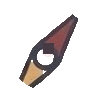
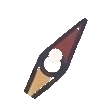
feat: 選關指南針指針單獨旋轉
底圖清掉指針，指針疊在上面繞中心轉。狗維持原圖不動。

Changed region(s): [[0.1875, 0.125, 0.8125, 0.9375]]

diff --git a/index.html b/index.html
@@ -34,7 +34,7 @@
   <link rel="preload" as="image" href="assets/review-yellow.png">
   <link rel="preload" as="image" href="assets/review-white.png">
   <link rel="stylesheet" href="styles.css?v=4">
-  <link rel="stylesheet" href="game.css?v=15">
+  <link rel="stylesheet" href="game.css?v=16">
 </head>
 <body>
   <audio id="bgm" src="assets/bgm.mp3?v=3" loop preload="auto" autoplay playsinline></audio>
@@ -66,7 +66,8 @@
 
   <main class="stage select-page" id="view-select" hidden>
     <div class="shot">
-      <img src="assets/select-ref.jpg?v=3" alt="趣味九九乘法表關卡選擇">
+      <img class="shot-plate" src="assets/select-compass-base.jpg?v=1" alt="趣味九九乘法表關卡選擇">
+      <img class="map-needle" src="assets/select-needle.png?v=2" alt="" aria-hidden="true">
 
       <button class="hit hit-x" id="map-back" type="button" aria-label="回主畫面"></button>
       <button class="hit hit-gear" id="map-settings" type="button" aria-label="設定"></button>

diff --git a/game.css b/game.css
@@ -12,13 +12,30 @@
   margin: 0 auto;
 }
 
-.shot > img {
+.shot > .shot-plate {
   display: block;
   width: 100%;
   height: auto;
   pointer-events: none;
   user-select: none;
   -webkit-user-drag: none;
+}
+
+.map-needle {
+  position: absolute;
+  z-index: 6;
+  left: 76.82%;
+  top: 65.74%;
+  width: 14.32%;
+  height: auto;
+  transform-origin: 50% 50%;
+  pointer-events: none;
+  animation: map-needle 3.4s ease-in-out infinite;
+}
+
+@keyframes map-needle {
+  0%, 100% { transform: rotate(-18deg); }
+  50% { transform: rotate(22deg); }
 }
 
 .hit {
@@ -717,6 +734,7 @@
   .level.is-on { animation: none; }
   .win-clip.is-leaving { transition: none; }
   .quiz-result.is-arriving { animation: none; }
+  .map-needle { animation: none; }
 }
 
 .table-page {

diff --git a/HANDOFF.md b/HANDOFF.md
@@ -36,7 +36,7 @@
 - 切主頁／選關／測驗時同一個元素繼續播，`currentTime` 不歸零。
 - 設定「音效」關掉就停，再開從原秒數接。
 - iPhone 第一次若被擋，點一下畫面會接上；接上之後換畫面不會再斷。
-- 快取：`styles.css?v=4`、`game.css?v=15`、`shell.js?v=3`、`app.js?v=4`、`select.js?v=3`、`play.js?v=13`、`table.js?v=2`。改檔要再加版本。
+- 快取：`styles.css?v=4`、`game.css?v=16`、`shell.js?v=3`、`app.js?v=4`、`select.js?v=3`、`play.js?v=13`、`table.js?v=2`。改檔要再加版本。
 
 ## 選關
 
@@ -44,7 +44,7 @@
 - 問號關 `data-n="mix"`：未選是圖上的紅球問號；選中變成粉紫金色特殊問號球，不是黃燈。
 - 熱區大約（相對 `.shot`）：9 在 44.2% / 70.8%，問號在 62.2% / 70.9%。
 - 高一點的手機底下多一截草地是原圖比例，不要再畫一層。
-- 選關是一張靜態原圖 `select-ref.jpg`，狗和指南針都不動。不要再疊浮動圖層，除非他再要求。熱區仍是透明按鈕。
+- 選關地圖是靜態原圖。只有右下角指南針指針會轉：底圖 `select-compass-base.jpg` 沒有指針，`select-needle.png` 疊在上面繞中心轉。狗不要再做成浮動圖層，除非他再要求。
 
 ## 測驗（play.html / play.js）
 
